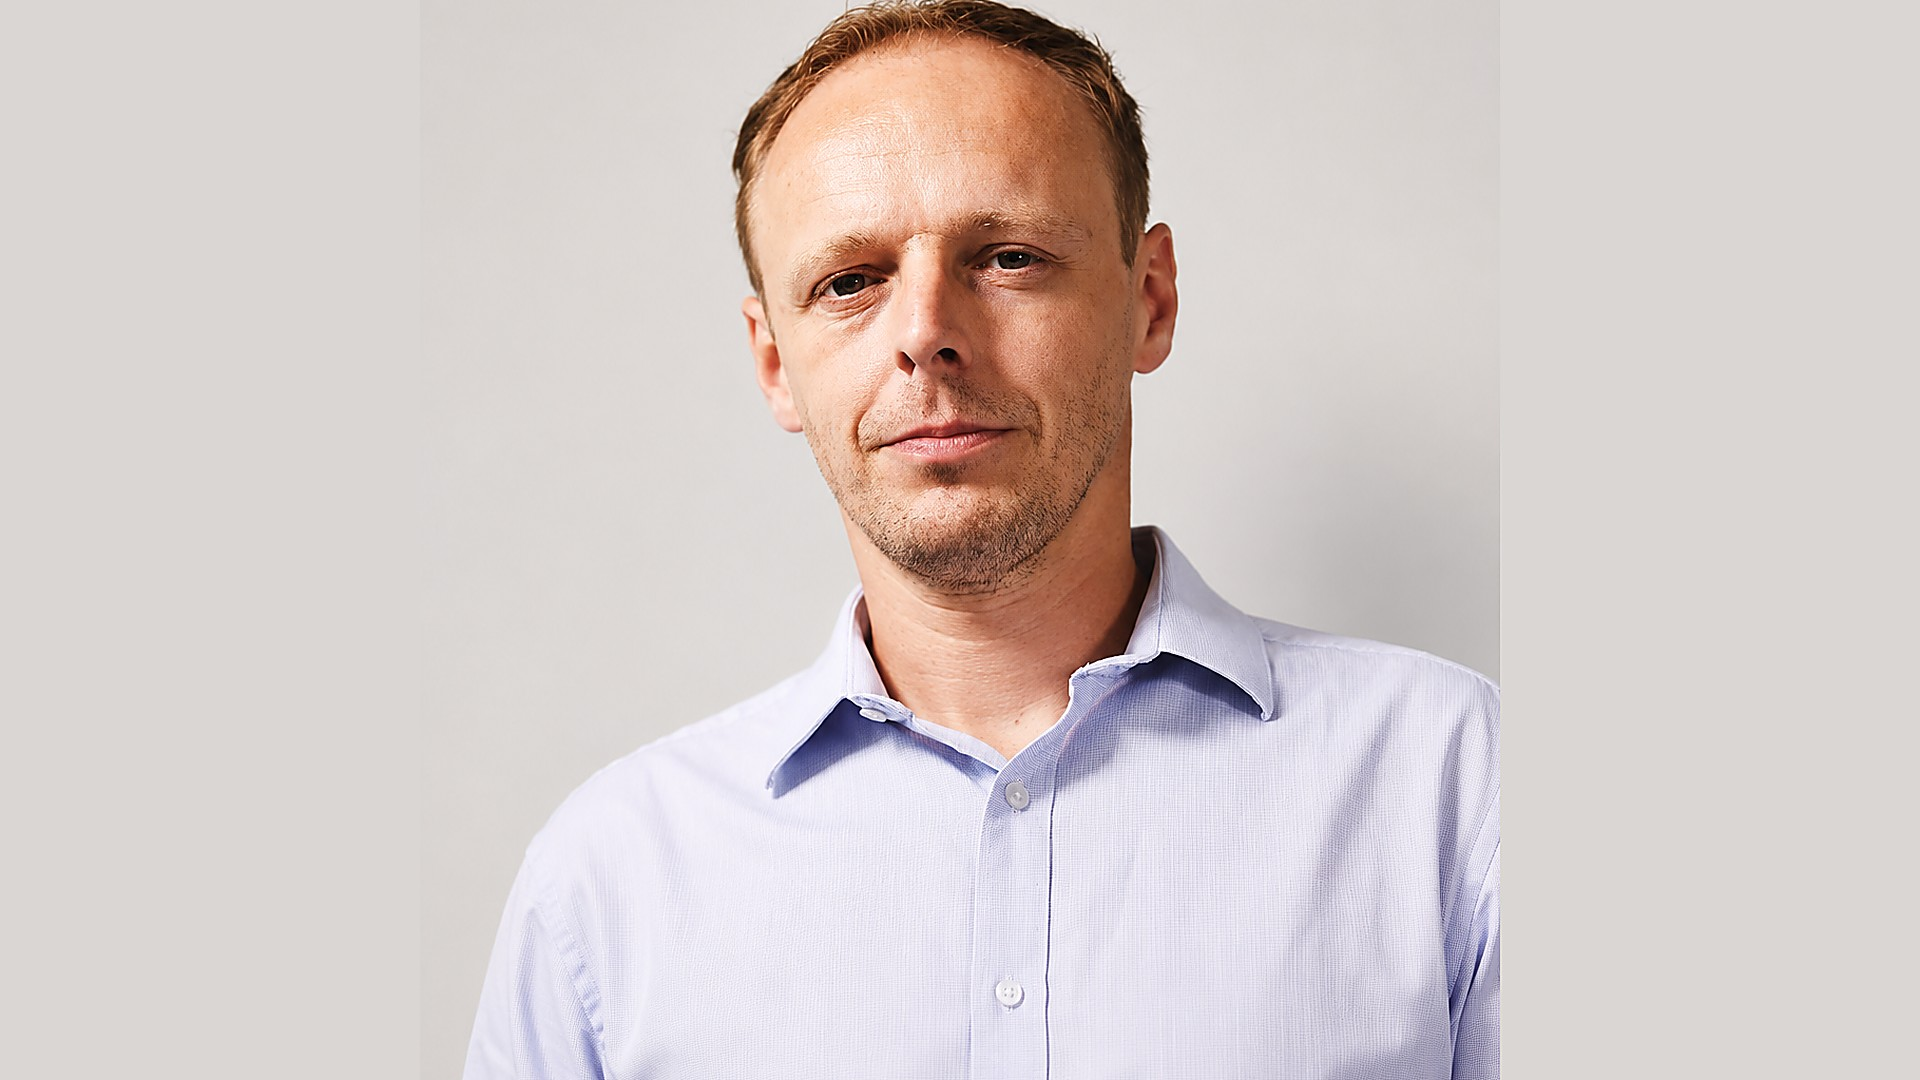
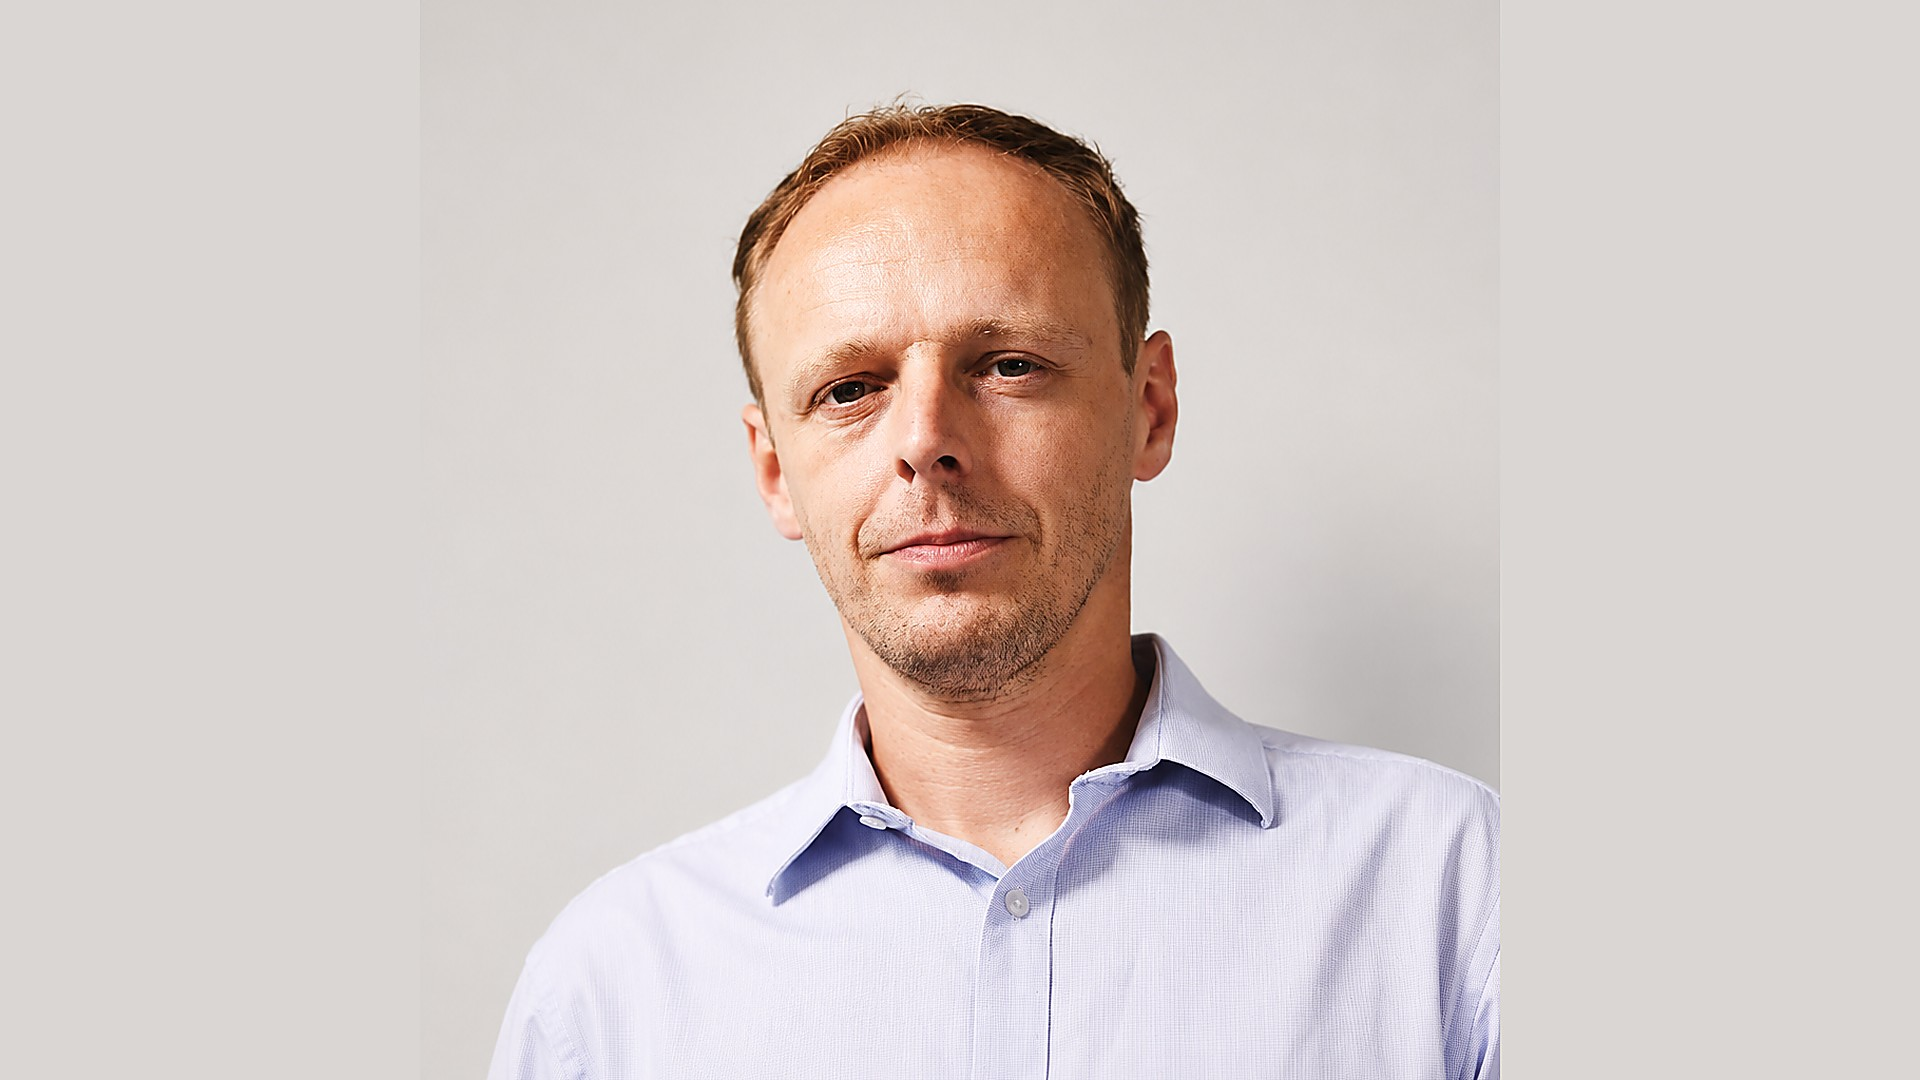
Team: bigger photos, eyes on the lower third line
72 -> 104px display size. All ten crops shifted so eyes sit at 2/3 down the
frame (the standard portrait rule-of-thirds line) instead of the roughly
23-30% they landed at before.

Changed region(s): [[0.2188, 0.0, 0.7812, 1.0]]

diff --git a/src/Brand.src.html b/src/Brand.src.html
@@ -363,7 +363,7 @@
     .team-list { display: flex; flex-direction: column; border: 1px solid var(--border); border-radius: 8px; overflow: hidden; }
     .team-row { display: flex; align-items: center; gap: var(--s-5); padding: var(--s-4) var(--s-5); border-top: 1px solid var(--border); }
     .team-row:first-child { border-top: none; }
-    .team-photo { flex: 0 0 72px; width: 72px; height: 72px; border-radius: 8px; overflow: hidden; background: var(--warm-white); }
+    .team-photo { flex: 0 0 104px; width: 104px; height: 104px; border-radius: 8px; overflow: hidden; background: var(--warm-white); }
     .team-photo img { width: 100%; height: 100%; object-fit: cover; display: block; }
     .team-info { flex: 1 1 auto; min-width: 0; }
     .team-name { font-size: 14px; font-weight: 600; letter-spacing: -0.02em; }
